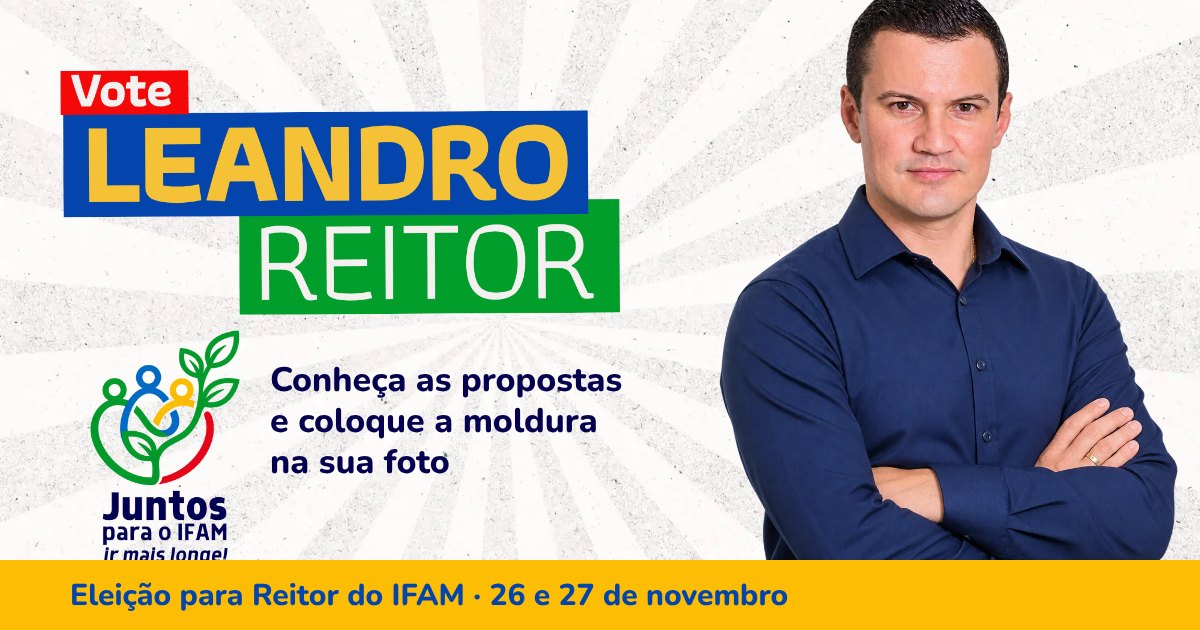
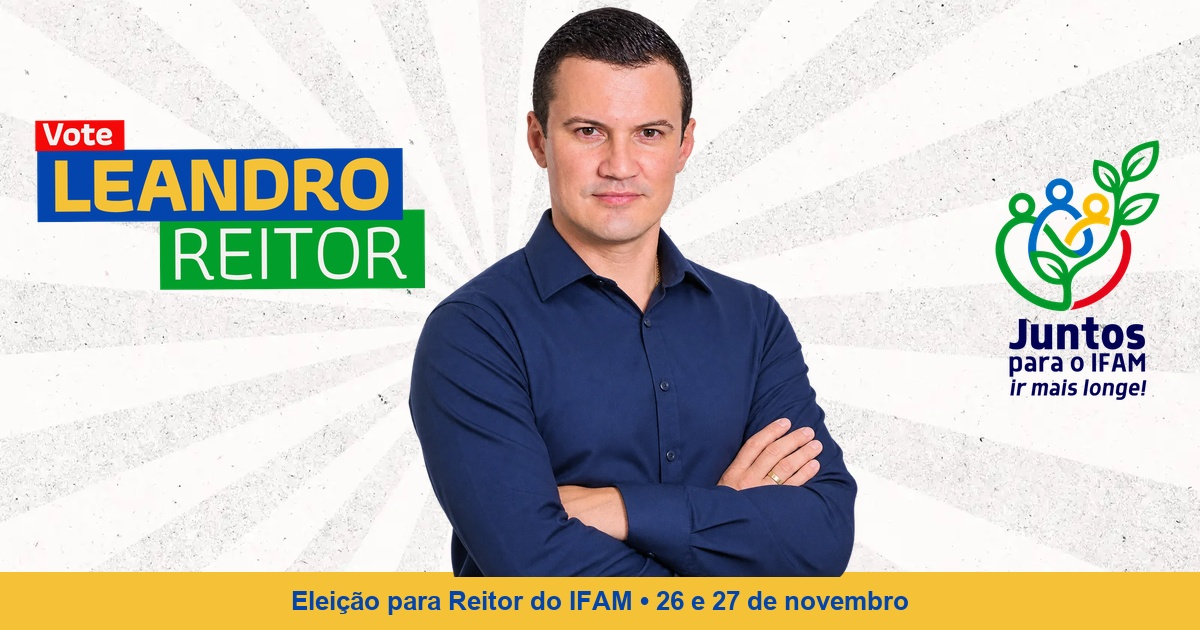
feat: carrossel intuitivo com setas e progresso passo-a-passo e og:image centralizada

diff --git a/index.html b/index.html
@@ -24,7 +24,20 @@
 <link rel="apple-touch-icon" href="assets/img/icon-180.png">
 <link rel="preload" href="assets/fonts/poppins-latin-900-normal.woff2" as="font" type="font/woff2" crossorigin>
 <link rel="preload" href="assets/fonts/poppins-latin-800-normal.woff2" as="font" type="font/woff2" crossorigin>
-<link rel="stylesheet" href="assets/estilo.css">
+<link rel="stylesheet" href="assets/estilo.css?v=2">
+<style>
+.carrossel-wrap{position:relative}
+.carrossel-controles{display:flex!important;align-items:center!important;justify-content:space-between!important;gap:14px!important;padding:12px 0 10px!important;max-width:440px!important;margin:0 auto!important}
+.ctrl-btn{width:48px!important;height:48px!important;border-radius:50%!important;background:#0445AD!important;color:#fff!important;border:none!important;display:inline-flex!important;align-items:center!important;justify-content:center!important;cursor:pointer!important;box-shadow:0 4px 14px rgba(4,69,173,.25)!important;flex-shrink:0!important;transition:transform .15s,background .2s,opacity .2s!important;-webkit-tap-highlight-color:transparent}
+.ctrl-btn svg{width:24px!important;height:24px!important;display:block}
+.ctrl-btn:hover:not(:disabled){background:#033486!important;transform:scale(1.06)!important}
+.ctrl-btn:active:not(:disabled){transform:scale(.95)!important}
+.ctrl-btn:disabled{opacity:.28!important;cursor:not-allowed!important;box-shadow:none!important}
+.carrossel-progresso-wrap{flex:1!important;display:flex!important;align-items:center!important;gap:14px!important}
+.carrossel-barra{flex:1!important;height:8px!important;background:#E2E8F0!important;border-radius:999px!important;overflow:hidden!important;position:relative!important}
+.carrossel-indicador{height:100%!important;width:8.33%!important;background:linear-gradient(90deg,#0445AD,#059669)!important;border-radius:999px!important;transition:width .25s ease-out!important}
+.carrossel-contador{font:800 15px var(--tit,sans-serif)!important;color:#0445AD!important;white-space:nowrap!important;min-width:54px!important;text-align:right!important}
+</style>
 </head>
 <body>
 
@@ -103,7 +116,7 @@
       <div class="trilho" id="trilho"></div>
       <div class="carrossel-controles">
         <button type="button" class="ctrl-btn prev" id="priPrev" aria-label="Princípio anterior" disabled>
-          <svg viewBox="0 0 24 24" fill="none" stroke="currentColor" stroke-width="2.6" stroke-linecap="round" stroke-linejoin="round"><path d="m15 18-6-6 6-6"/></svg>
+          <svg width="24" height="24" viewBox="0 0 24 24" fill="none" stroke="currentColor" stroke-width="2.6" stroke-linecap="round" stroke-linejoin="round"><path d="m15 18-6-6 6-6"/></svg>
         </button>
         <div class="carrossel-progresso-wrap">
           <div class="carrossel-barra">
@@ -112,7 +125,7 @@
           <span class="carrossel-contador" id="priContador">01 / 12</span>
         </div>
         <button type="button" class="ctrl-btn next" id="priNext" aria-label="Próximo princípio">
-          <svg viewBox="0 0 24 24" fill="none" stroke="currentColor" stroke-width="2.6" stroke-linecap="round" stroke-linejoin="round"><path d="m9 18 6-6-6-6"/></svg>
+          <svg width="24" height="24" viewBox="0 0 24 24" fill="none" stroke="currentColor" stroke-width="2.6" stroke-linecap="round" stroke-linejoin="round"><path d="m9 18 6-6-6-6"/></svg>
         </button>
       </div>
     </div>
@@ -299,8 +312,8 @@
 </div>
 <div class="toast" id="toast" role="status"></div>
 
-<script src="assets/dados.js"></script>
-<script src="assets/app.js"></script>
-<script src="assets/moldura.js"></script>
+<script src="assets/dados.js?v=2"></script>
+<script src="assets/app.js?v=2"></script>
+<script src="assets/moldura.js?v=2"></script>
 </body>
 </html>

diff --git a/assets/app.js b/assets/app.js
@@ -91,34 +91,55 @@
 
   function passoCard() {
     var card = tr.querySelector(".pri");
-    return card ? card.offsetWidth + 16 : 300;
+    return card ? card.offsetWidth + 16 : 320;
   }
 
   function atualizaControles() {
     var maxScroll = tr.scrollWidth - tr.clientWidth;
     var sl = tr.scrollLeft;
-    var idx = 0;
-    if (maxScroll > 1) {
-      var progresso = Math.min(1, Math.max(0, sl / maxScroll));
-      barra.style.width = Math.max(8.33, Math.round(progresso * 100)) + "%";
-      idx = Math.min(totalPri - 1, Math.round(sl / passoCard()));
-    } else {
-      barra.style.width = "100%";
-      idx = 0;
-    }
+    var step = passoCard();
+    var idx = Math.min(totalPri - 1, Math.max(0, Math.round(sl / step)));
+    var progresso = (idx + 1) / totalPri;
+    if (barra) barra.style.width = Math.round(progresso * 100) + "%";
     if (cont) cont.textContent = String(idx + 1).padStart(2, "0") + " / " + String(totalPri).padStart(2, "0");
-    if (bPrev) bPrev.disabled = sl <= 5;
-    if (bNext) bNext.disabled = sl >= maxScroll - 5;
+    if (bPrev) {
+      var isStart = sl <= 10;
+      bPrev.disabled = isStart;
+      bPrev.style.opacity = isStart ? "0.3" : "1";
+      bPrev.style.cursor = isStart ? "not-allowed" : "pointer";
+    }
+    if (bNext) {
+      var isEnd = sl >= maxScroll - 10;
+      bNext.disabled = isEnd;
+      bNext.style.opacity = isEnd ? "0.3" : "1";
+      bNext.style.cursor = isEnd ? "not-allowed" : "pointer";
+    }
   }
 
   if (bPrev) {
     bPrev.onclick = function () {
-      tr.scrollBy({ left: -passoCard(), behavior: "smooth" });
+      var step = passoCard();
+      var currentIdx = Math.round(tr.scrollLeft / step);
+      var targetIdx = Math.max(0, currentIdx - 1);
+      var cards = tr.querySelectorAll(".pri");
+      if (cards[targetIdx]) {
+        cards[targetIdx].scrollIntoView({ behavior: "smooth", inline: "start", block: "nearest" });
+      } else {
+        tr.scrollBy({ left: -step, behavior: "smooth" });
+      }
     };
   }
   if (bNext) {
     bNext.onclick = function () {
-      tr.scrollBy({ left: passoCard(), behavior: "smooth" });
+      var step = passoCard();
+      var currentIdx = Math.round(tr.scrollLeft / step);
+      var targetIdx = Math.min(totalPri - 1, currentIdx + 1);
+      var cards = tr.querySelectorAll(".pri");
+      if (cards[targetIdx]) {
+        cards[targetIdx].scrollIntoView({ behavior: "smooth", inline: "start", block: "nearest" });
+      } else {
+        tr.scrollBy({ left: step, behavior: "smooth" });
+      }
     };
   }
 
